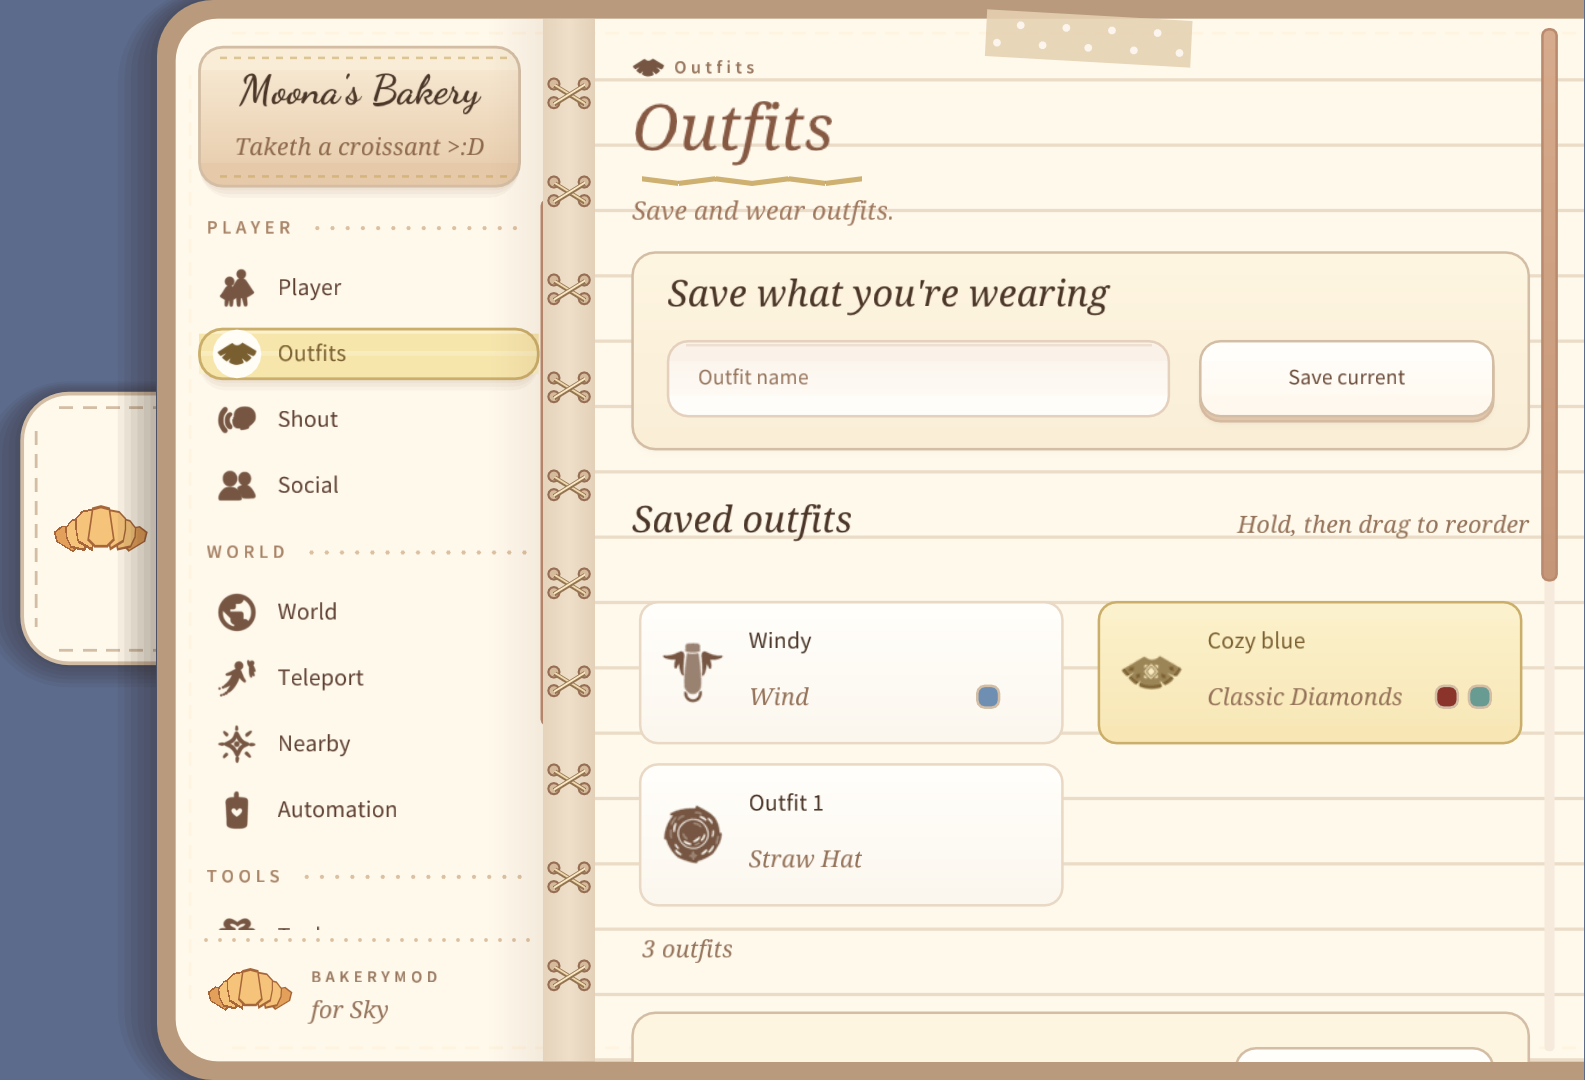
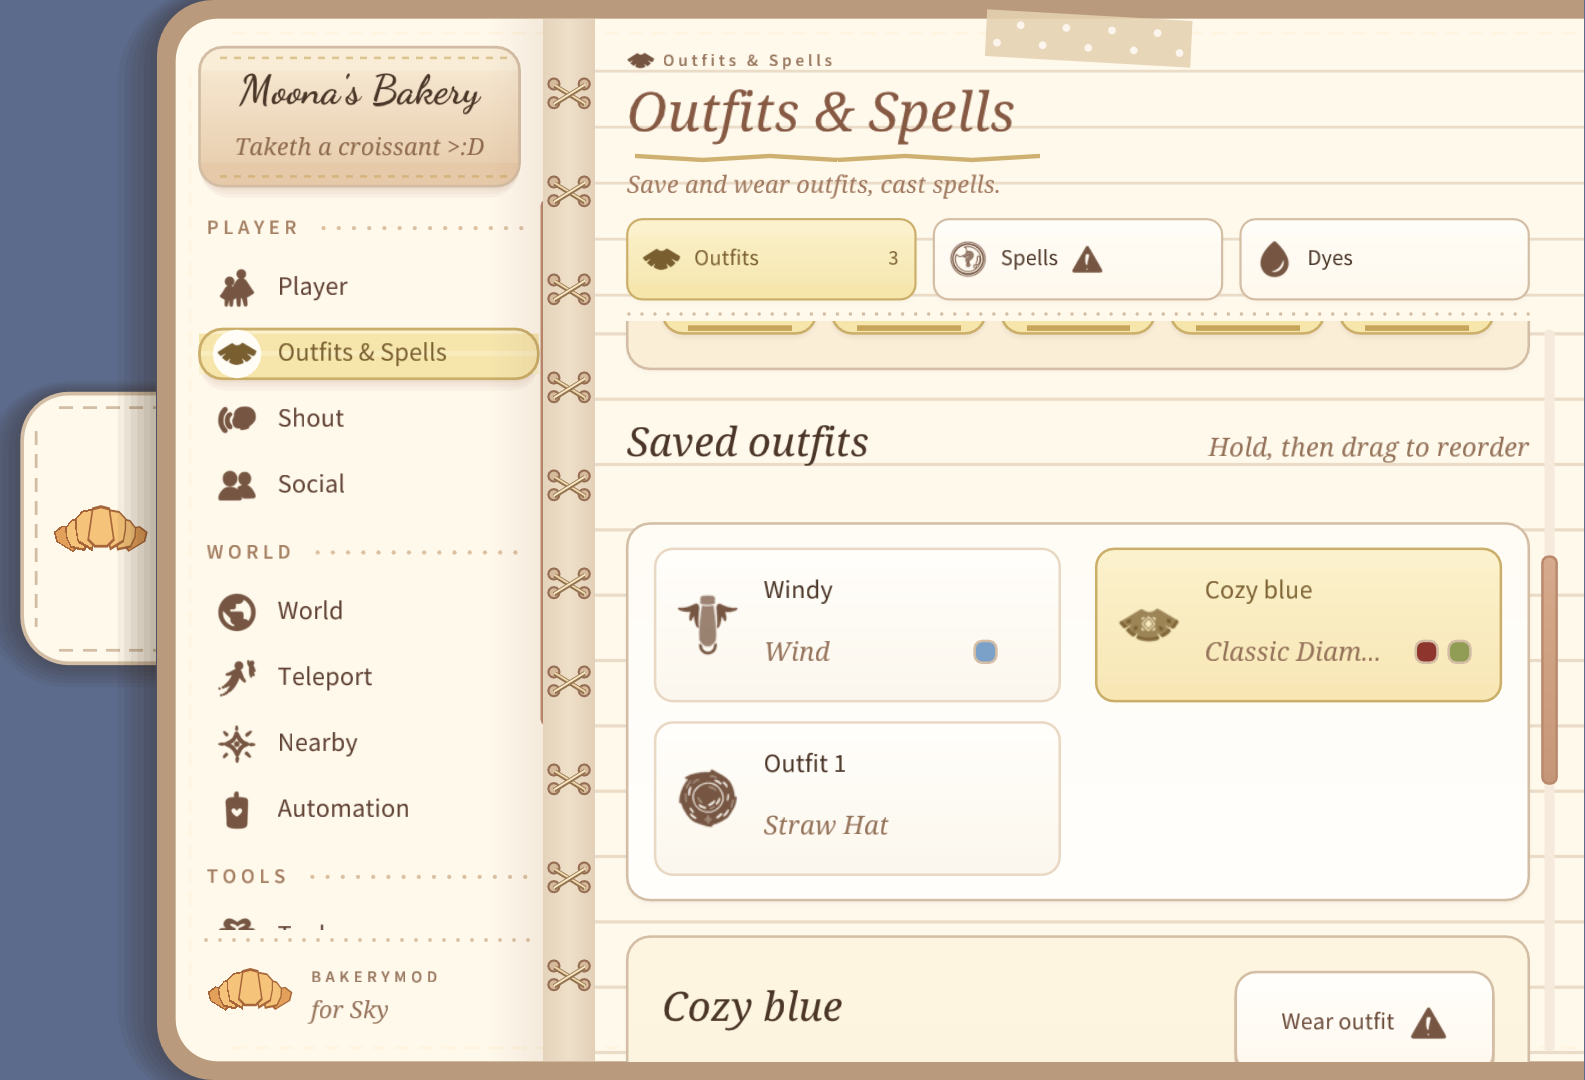
README for 2.2.1: Sky 0.35.5, new features and pictures
Sky badge and note now say 0.35.5.431758.
Fresh from the oven and the menu list cover Outfits & Spells (Dyes, Random outfit, Spells), Social sends, Shared drop and Their outfit, Presets, World emotes and quests, the Toybox Cape Upgrade and Radiance, and Update now.
New pictures of every page, plus Spells and Dyes.

diff --git a/README.md b/README.md
@@ -16,7 +16,7 @@
 
 <p align="center">
   <a href="../../releases"><img src="https://img.shields.io/github/downloads/LunaYuma/MoonasBakery-Android/total?style=flat-square&label=Downloads&color=c98f5b&labelColor=3b2a20" alt="Downloads"></a>
-  <img src="https://img.shields.io/badge/Sky-0.35.2.426499-e8c9a0?style=flat-square&labelColor=3b2a20" alt="Sky version">
+  <img src="https://img.shields.io/badge/Sky-0.35.5.431758-e8c9a0?style=flat-square&labelColor=3b2a20" alt="Sky version">
   <img src="https://img.shields.io/badge/Android-Canvas%201.9.4-8b5e3c?style=flat-square&logo=android&logoColor=white&labelColor=3b2a20" alt="Android, Canvas 1.9.4">
   <img src="https://img.shields.io/badge/Price-Free%20forever-c98f5b?style=flat-square&labelColor=3b2a20" alt="Free forever">
 </p>
@@ -34,7 +34,7 @@
 > [!IMPORTANT]
 > **Moona's Bakery is free. It always has been.** If you paid for it, you got scammed!! Only get it from this repo or my [Discord](https://discord.gg/xpdDNs3nga).
 >
-> Works with Sky **0.35.2.426499** on Android (ARM64), through **Canvas 1.9.4**. When Sky updates, I'll know! Just wait for a new release.
+> Works with Sky **0.35.5.431758** on Android (ARM64), through **Canvas 1.9.4**. When Sky updates, I'll know! Just wait for a new release.
 
 ---
 
@@ -44,15 +44,15 @@
   <tr>
     <td width="33%" valign="top">
       <h3>Made for your phone</h3>
-      A croissant tab on the edge of your screen opens the menu. Left or right side, your pick, and you can resize it to fit.
+      A croissant tab on the edge of your screen opens the menu. Left or right side, your pick, and you can resize it and its text to fit.
     </td>
     <td width="33%" valign="top">
-      <h3>Outfits</h3>
-      Save your outfits with a name, hold and drag them into any order, and wear any of them in one tap. Clothes and dyes!
+      <h3>Outfits &amp; Spells <sup>NEW</sup></h3>
+      Save outfits with a name and wear them in one tap. Dye them any color (only on your screen!), roll a random outfit with Undo and Redo, and browse every spell in the game.
     </td>
     <td width="33%" valign="top">
-      <h3>Speaks your language</h3>
-      10 languages, with the fonts built right in, so it looks the same on every phone. Dark mode too!
+      <h3>Social <sup>NEW</sup></h3>
+      Everyone in your level in one list. Teleport to them, Watch them, keep a friendship offer up, drop shared winged light, peek at their outfit (and save it!), or send a Pout, Level up or Ancestor glow.
     </td>
   </tr>
   <tr>
@@ -65,8 +65,8 @@
       A numbered list of everything around you, with matching tags, pile counts, and pointers when things are off-screen.
     </td>
     <td valign="top">
-      <h3>Social</h3>
-      Everyone in your level in one list. Teleport to them, Watch them, or keep a friendship offer up for as long as you want.
+      <h3>Made yours <sup>NEW</sup></h3>
+      The Bakery remembers your switches, and Presets swap between whole sets. Dark mode, and 10 languages with the fonts built right in, so it looks the same on every phone.
     </td>
   </tr>
   <tr>
@@ -75,12 +75,12 @@
       Every level, the Aviary portals, your own saved spots, coordinates, and a floating Nudge Pad you can drag anywhere.
     </td>
     <td valign="top">
-      <h3>World</h3>
-      Move the sun and moon, the Art Book look, glow and dim, Hide Game UI, and Unlock All for the friendship tree.
+      <h3>World <sup>NEW</sup></h3>
+      Move the sun and moon, the Art Book look, Hide Game UI, Unlock All, Unlock All Emotes and emote levels, and Auto Complete Quests (alts only!).
     </td>
     <td valign="top">
-      <h3>Updates in Canvas</h3>
-      When a new version is out, tap <b>Check For Updates</b> in Canvas and install it right there.
+      <h3>Updates <sup>NEW</sup></h3>
+      The Bakery tells you when a new version is out, and <b>Update now</b> takes care of the rest. Canvas's <b>Check For Updates</b> works too.
     </td>
   </tr>
 </table>
@@ -92,10 +92,14 @@
 <table>
   <tr>
     <td width="50%"><img src="images/player.png" alt="Player"><p align="center"><b>Player</b><br><sub>Movement, protection and effects</sub></p></td>
-    <td width="50%"><img src="images/outfits.png" alt="Outfits"><p align="center"><b>Outfits</b><br><sub>Save, sort and wear your outfits</sub></p></td>
+    <td width="50%"><img src="images/outfits.png" alt="Outfits"><p align="center"><b>Outfits</b><br><sub>Save, sort, wear and randomize your outfits</sub></p></td>
   </tr>
   <tr>
-    <td><img src="images/social.png" alt="Social"><p align="center"><b>Social</b><br><sub>Players here, Watch and friendship offers</sub></p></td>
+    <td><img src="images/spells.png" alt="Spells"><p align="center"><b>Spells</b><br><sub>Every spell in the game, with search</sub></p></td>
+    <td><img src="images/dyes.png" alt="Dyes"><p align="center"><b>Dyes</b><br><sub>Dye what you wear, only on your screen</sub></p></td>
+  </tr>
+  <tr>
+    <td><img src="images/social.png" alt="Social"><p align="center"><b>Social</b><br><sub>Players here, Watch, offers and their outfit</sub></p></td>
     <td><img src="images/teleport.png" alt="Teleport"><p align="center"><b>Teleport</b><br><sub>Places, levels and your saved spots</sub></p></td>
   </tr>
   <tr>
@@ -103,7 +107,7 @@
     <td><img src="images/esp.png" alt="ESP"><p align="center"><b>ESP</b><br><sub>Markers for everything around you</sub></p></td>
   </tr>
   <tr>
-    <td><img src="images/world.png" alt="World"><p align="center"><b>World</b><br><sub>Sun, moon and the Art Book look</sub></p></td>
+    <td><img src="images/world.png" alt="World"><p align="center"><b>World</b><br><sub>World rules, visibility, sun and Art Book</sub></p></td>
     <td><img src="images/toybox.png" alt="Toybox"><p align="center"><b>Toybox</b><br><sub>Messages, hidden menus and effects</sub></p></td>
   </tr>
 </table>
@@ -131,33 +135,39 @@
 </details>
 
 <details open>
-<summary><b>Outfits</b></summary>
+<summary><b>Outfits</b> <sup>NEW</sup></summary>
 <br>
 
-- Save what you're wearing with a name
+- Save what you're wearing with a name. Clothes and dyes!
 - Every saved outfit shows its cape with Sky's own item icons
-- **Wear** it again in one tap: clothes and dyes
+- **Wear** it again in one tap (your props stay right where they were)
 - Hold an outfit, then drag it to reorder. Rename it, Replace it with what you're wearing, or Delete it (Replace and Delete ask twice)
+- **Dyes tab:** dye your outfit any color you like, only on your screen. The spots Sky can't dye stay locked, just like in Sky
+- **Random outfit:** tap Randomize, with Undo and Redo, and tick which slots it's allowed to change
+- **Spells tab:** every spell in the game in one list, with search and a category index
+- Your outfits are saved in a file (`BakeryOutfits.json`, same as the PC version)
 </details>
 
 <details open>
-<summary><b>Social</b></summary>
+<summary><b>Social</b> <sup>NEW</sup></summary>
 <br>
 
 | | |
 |---|---|
-| **Players here** | See who's around, **Teleport here** or **Watch** them with their camera |
+| **Players here** | See who's around, **Teleport here** or **Watch** them with their camera, or send a **Shared drop** of winged light at them (everyone sees it, nobody loses any) |
 | **You offer them** | Keep any friendship offer up for the player you pick, with or without the offering pose |
 | **They offer you** | Have them offer you a hand hold, a piggyback or a princess carry (on your screen) |
+| **Their outfit** | See their clothes and dyes, and save it to your own outfits |
+| **Sends** | Pout, Level up or Ancestor (makes them glow) for the player you picked |
 </details>
 
 <details open>
-<summary><b>World</b></summary>
+<summary><b>World</b> <sup>NEW</sup></summary>
 <br>
 
 | | |
 |---|---|
-| **Rules** | Fast Meditate, Read Table Messages, Unlock All, Relationship Abilities, Game Speed, Prevent Session Split |
+| **Rules** | Fast Meditate, Read Table Messages, Unlock All, **Unlock All Emotes**, **Unlock Emote Levels**, Relationship Abilities, Game Speed, Prevent Session Split, **Auto Complete Quests** (use that one only on an alt!) |
 | **Disable** | Spirit Gates, Wind Walls, Cutscenes, Gravity, Multiplayer |
 | **Players** | Show All Spirits, Light All Players, Reveal All Players, Hide Other Players, Birthday Krills |
 | **Hide** | **Hide Game UI**, plus the clouds, terrain, ocean, objects, models, candle flames and more |
@@ -197,14 +207,14 @@
 </details>
 
 <details open>
-<summary><b>Toybox</b></summary>
+<summary><b>Toybox</b> <sup>NEW</sup></summary>
 <br>
 
 | | |
 |---|---|
 | **Messages** | Recording, Stones, Crane, Candle, Gondola, Boat, Lantern |
 | **Hidden menus** | Fireworks, Grapple, Season Pass, Sequencer, Audience, Dye, Medals |
-| **Effects & camera** | Gift, Presence, Hide Trail, Purchase, Level Up, Firework, Screenshot Pose |
+| **Effects & camera** | Gift, Presence, Hide Trail, Purchase, Level Up, Firework, Screenshot Pose, **Cape Upgrade**, **Radiance** |
 | **Closet** | Portable Closet: open the closets from anywhere, with a reach slider |
 </details>
 
@@ -233,10 +243,11 @@
 <br>
 
 - **Language:** English, Українська, Русский, 日本語, 简体中文, 繁體中文, Bahasa Indonesia, Español, Français, Tiếng Việt
-- Interface size, menu width, opacity and **Dark mode**
+- **Presets:** save your switches and sliders as a named set, and swap between them
+- Interface size, **Text size** (100-150%), menu width, opacity and **Dark mode**
 - Put the menu on the **left or right** side (hi, left-handed bakers!)
 - Hide the croissant tab, or hide Canvas's own menu button
-- Your menu settings are remembered between sessions
+- The Bakery remembers your switches and settings between sessions
 </details>
 
 ---
@@ -252,7 +263,8 @@
 | **5** | Tap the **croissant tab** on the edge of your screen to open the menu. |
 
 > [!TIP]
-> **Updating?** In Canvas, tap **Check For Updates** on Moona's Bakery, then **Install**. Canvas swaps it in for you, no re-adding needed.
+> **Updating?** The Bakery tells you when a new version is out. Tap **Update now** and it takes care of the rest, then restart Sky.
+> You can also tap **Check For Updates** on Moona's Bakery in Canvas, then **Install**. No re-adding needed.
 
 ---
 
@@ -263,6 +275,8 @@
 
 - This mod is **not affiliated with or endorsed by thatgamecompany**.
 - I only add features I've tested myself.
+- Features that could get you in trouble wear Sky's own **Report** icon (be careful) or **Block** icon (alts only).
+- The Bakery sends an anonymous ping when it starts, with a random install ID and the mod version, so I can count how many people use the mod and the menu can tell you about updates.
 - **ARM64 Android only**, through Canvas. On PC? Go to [MoonasBakery-PC](https://github.com/LunaYuma/MoonasBakery-PC).
 - When Sky updates, the mod stops working until I put out a new build. Watch this repo to get notified.
 - Big thanks to the Canvas team for making Android modding possible ^^
